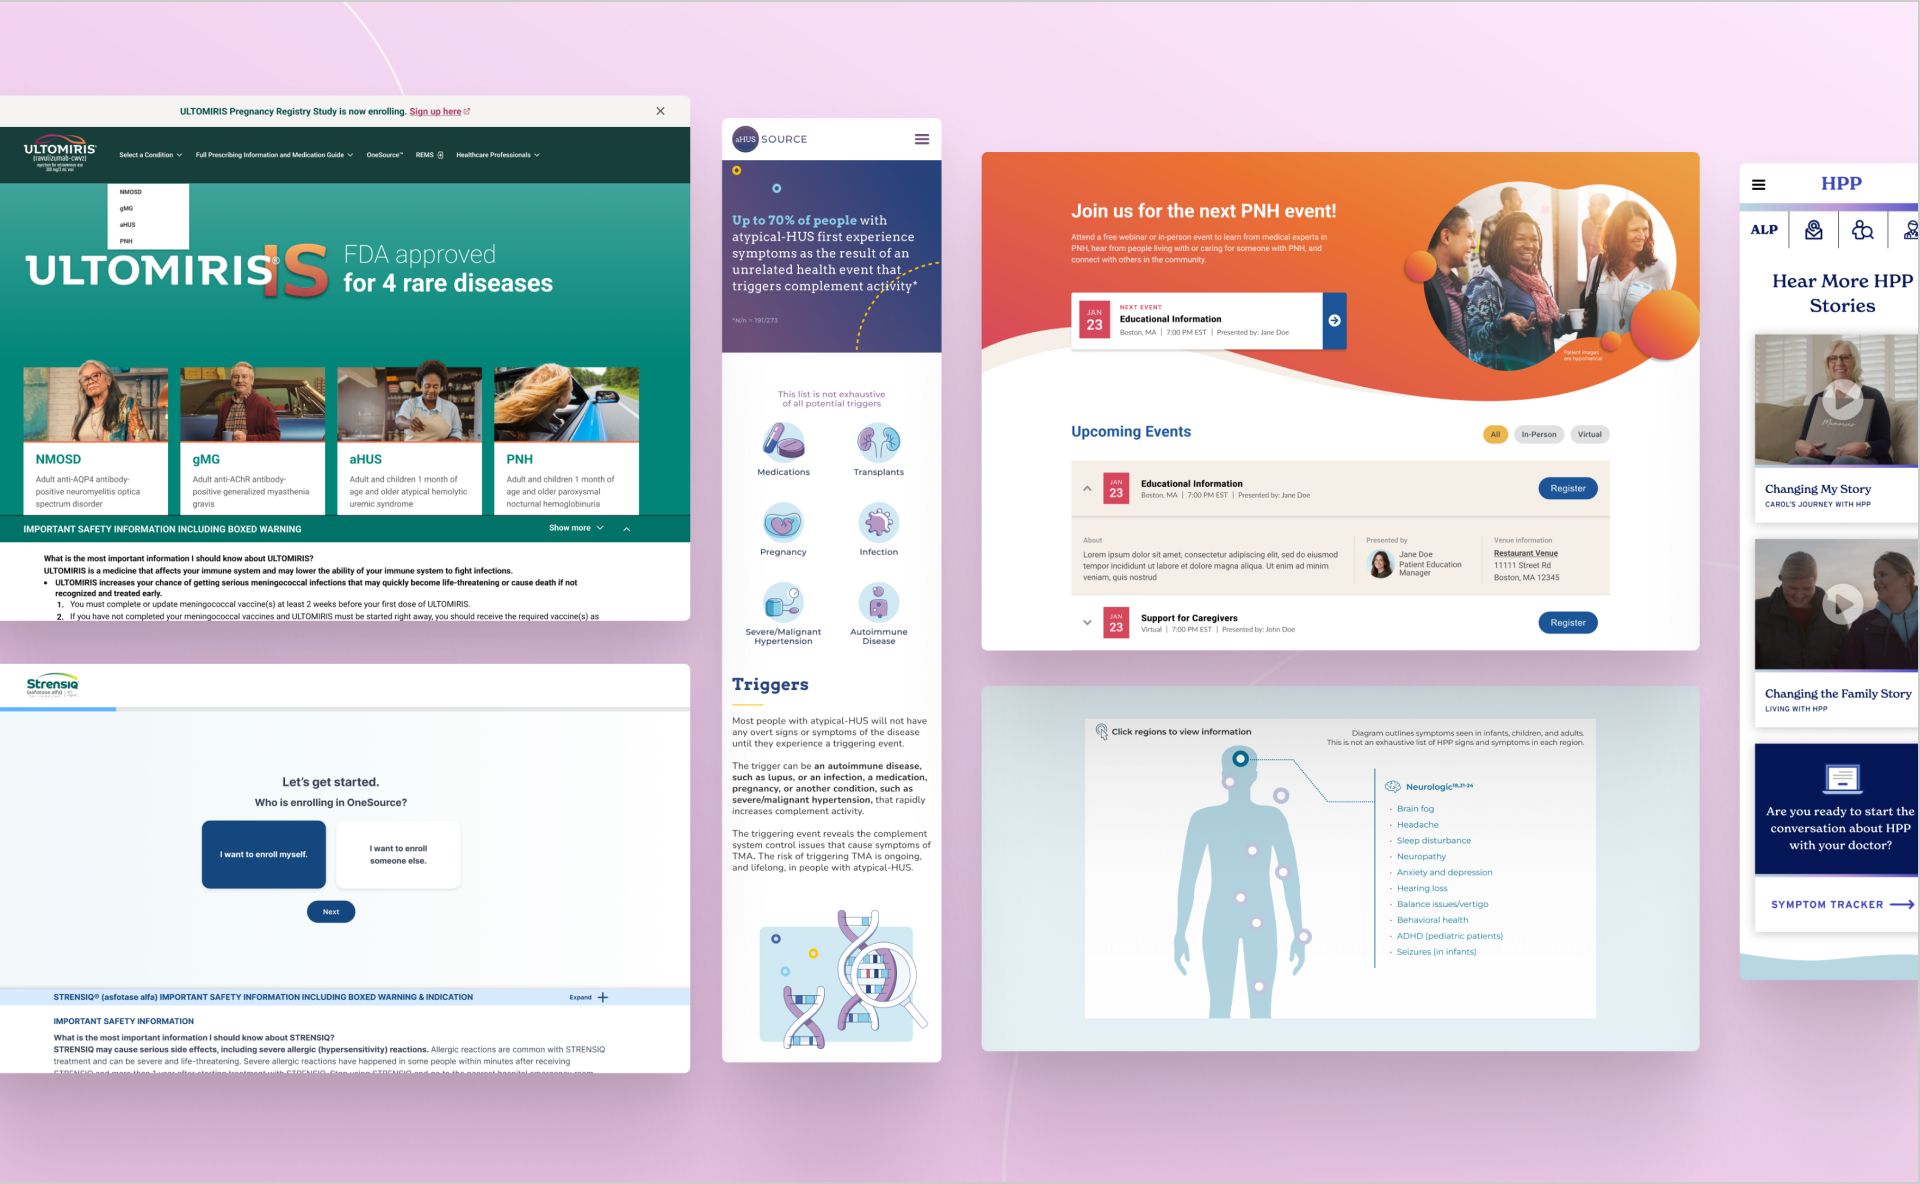
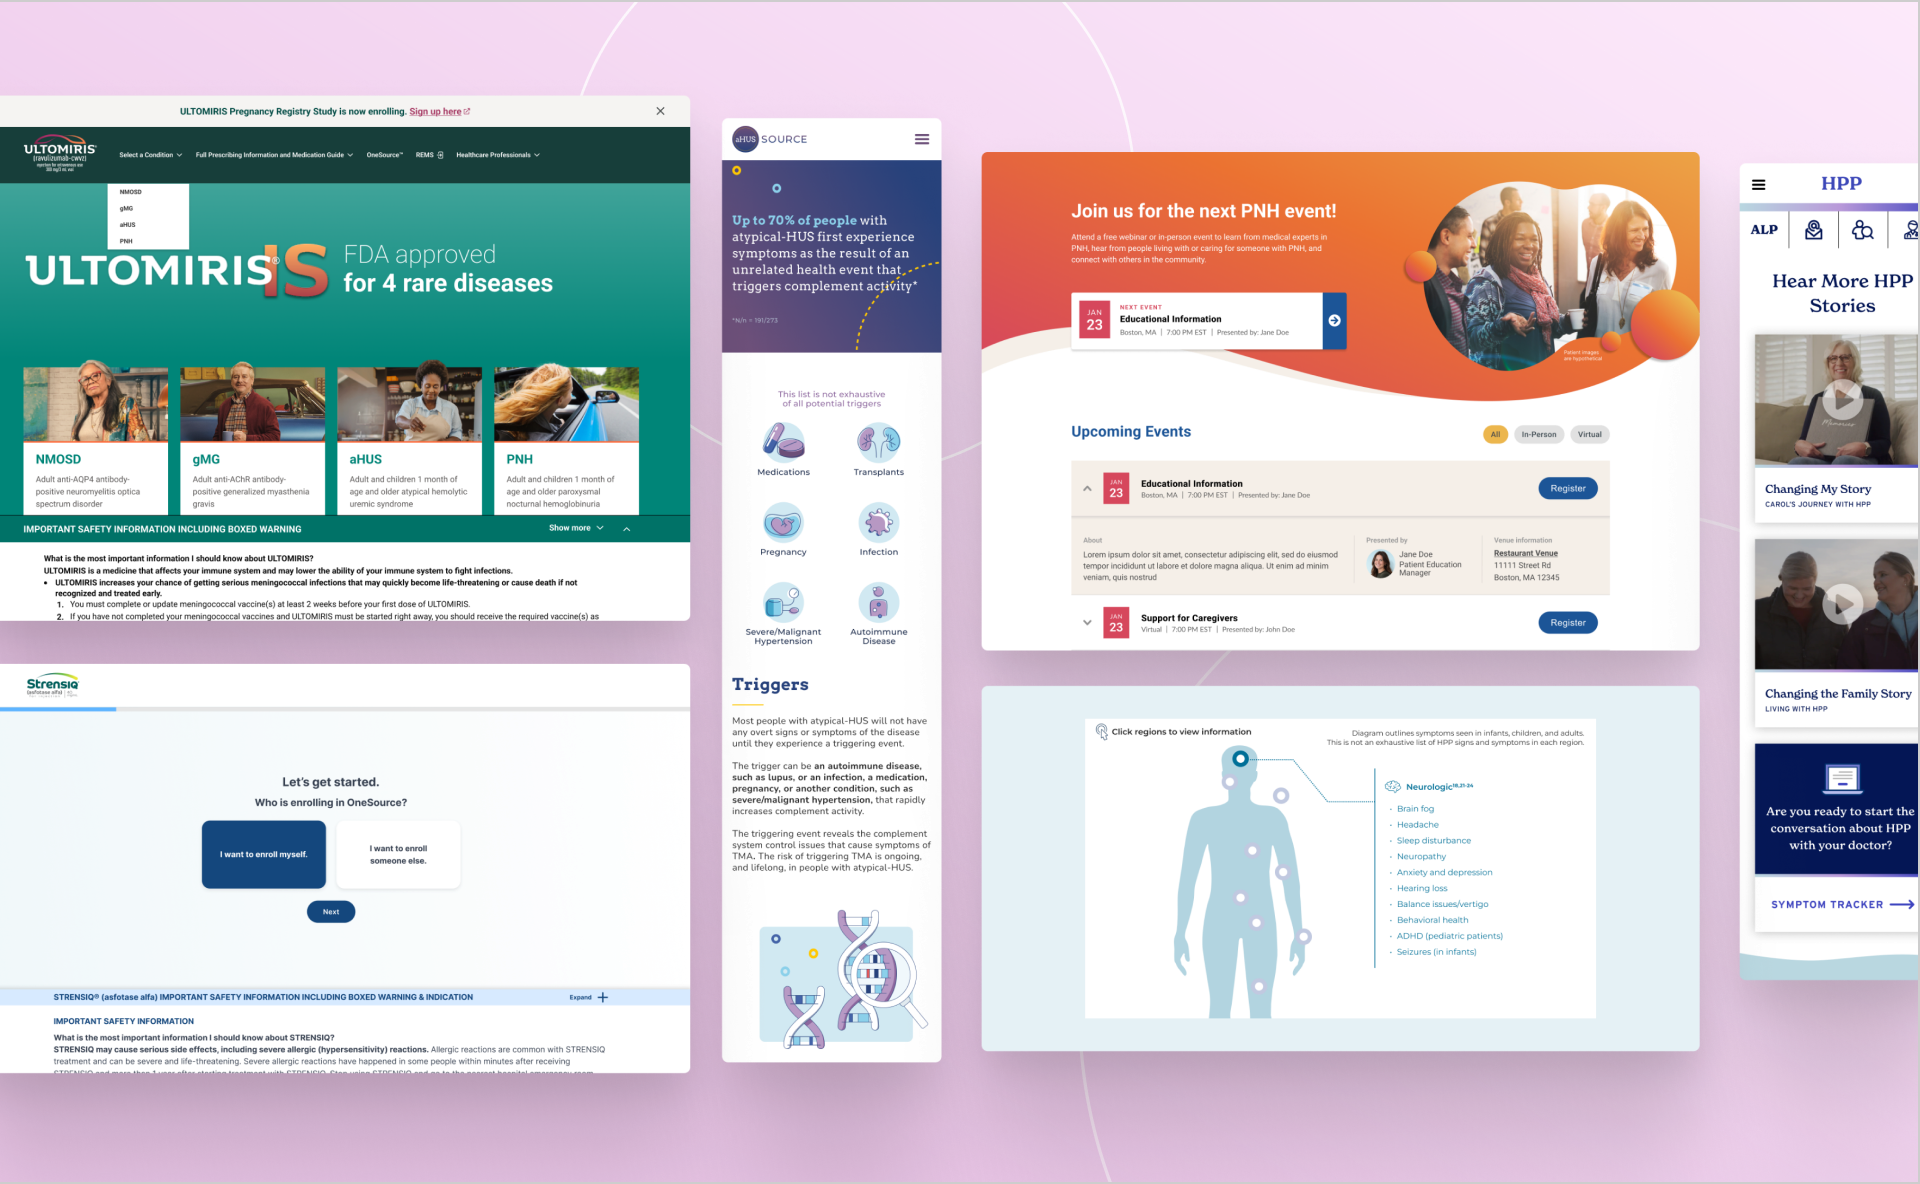
Update navigation and fix mobile industries section
- Nav links updated to title case: Our Services, Work, About Us, Let's Talk
- Removed text-transform uppercase from nav links
- Added purple hover state for nav links
- Added id="work" to featured work section for nav linking
- Fixed mobile industries bar: added bottom margin, reduced left padding, aligned bullets with first line text
- Restored logo text visibility on mobile nav and footer
- Updated section 2 and 3 images from Figma
- Bumped CSS cache version to v7

Changed region(s): [[0.5, 0.5625, 0.875, 0.625]]

diff --git a/styles.css b/styles.css
@@ -182,14 +182,13 @@ button {
   font-family: var(--font-heading);
   font-size: 14px;
   font-weight: 500;
-  letter-spacing: 0.84px;
-  text-transform: uppercase;
+  letter-spacing: 0.42px;
   color: var(--color-text);
-  transition: opacity 0.3s ease;
+  transition: color 0.3s ease;
 }
 
 .nav-link:hover {
-  opacity: 0.6;
+  color: var(--color-purple);
 }
 
 /* =============================================
@@ -1195,7 +1194,7 @@ button {
   }
 
   .nav-logo-text {
-    display: none;
+    display: block;
   }
 
   .nav-hamburger {
@@ -1323,16 +1322,16 @@ button {
   }
 
   .industries-bar {
-    margin: 0 24px;
+    margin: 0 24px 40px;
     align-items: stretch;
   }
 
   .industries-label {
     font-size: 11px;
-    padding: 16px;
+    padding: 12px;
     margin-right: 0;
     flex: 0 0 auto;
-    width: 150px;
+    width: 110px;
     align-self: flex-start;
     border-right: none;
   }
@@ -1342,7 +1341,7 @@ button {
     align-items: flex-start;
     gap: 6px;
     flex: 1;
-    padding: 16px 24px 16px 16px;
+    padding: 12px 16px;
     border-left: 1px solid var(--color-border);
   }
 
@@ -1353,7 +1352,7 @@ button {
   .industry-item {
     font-size: 11px;
     display: flex;
-    align-items: center;
+    align-items: baseline;
     gap: 8px;
   }
 
@@ -1364,6 +1363,8 @@ button {
     border-radius: 50%;
     background: #d64040;
     flex-shrink: 0;
+    position: relative;
+    top: -1px;
   }
 
   .how-we-think {

diff --git a/index.html b/index.html
@@ -17,7 +17,7 @@
   <link rel="preconnect" href="https://fonts.googleapis.com">
   <link rel="preconnect" href="https://fonts.gstatic.com" crossorigin>
   <link href="https://fonts.googleapis.com/css2?family=Geist:wght@400;600;700&family=Public+Sans:wght@400;600&family=Inter:wght@500&display=swap" rel="stylesheet">
-  <link rel="stylesheet" href="styles.css?v=4">
+  <link rel="stylesheet" href="styles.css?v=7">
 </head>
 <body>
 
@@ -47,9 +47,10 @@
       <span class="hamburger-line"></span>
     </button>
     <div class="nav-links">
-      <a href="#services" class="nav-link">What we do</a>
-      <a href="#about" class="nav-link">About</a>
-      <a href="contact.html" class="nav-link">Connect</a>
+      <a href="#services" class="nav-link">Our Services</a>
+      <a href="#work" class="nav-link">Work</a>
+      <a href="#about" class="nav-link">About Us</a>
+      <a href="contact.html" class="nav-link">Let's Talk</a>
     </div>
     <div class="nav-overlay"></div>
   </nav>
@@ -233,7 +234,7 @@
   </section>
 
   <!-- Featured Work -->
-  <section class="featured-work">
+  <section id="work" class="featured-work">
     <div class="section-tag">
       <img src="assets/dot-pink.svg" alt="" class="dot">
       <span>Featured work</span>

diff --git a/work-branding.html b/work-branding.html
@@ -7,7 +7,7 @@
   <link rel="preconnect" href="https://fonts.googleapis.com">
   <link rel="preconnect" href="https://fonts.gstatic.com" crossorigin>
   <link href="https://fonts.googleapis.com/css2?family=Geist:wght@400;600;700&family=Public+Sans:wght@400;600&family=Inter:wght@500&display=swap" rel="stylesheet">
-  <link rel="stylesheet" href="styles.css?v=5">
+  <link rel="stylesheet" href="styles.css?v=7">
   <link rel="stylesheet" href="case-study.css?v=6">
 </head>
 <body>
@@ -26,9 +26,10 @@
       <span class="hamburger-line"></span>
     </button>
     <div class="nav-links">
-      <a href="index.html#services" class="nav-link">What we do</a>
-      <a href="index.html#about" class="nav-link">About</a>
-      <a href="contact.html" class="nav-link">Connect</a>
+      <a href="index.html#services" class="nav-link">Our Services</a>
+      <a href="index.html#work" class="nav-link">Work</a>
+      <a href="index.html#about" class="nav-link">About Us</a>
+      <a href="contact.html" class="nav-link">Let's Talk</a>
     </div>
     <div class="nav-overlay"></div>
   </nav>

diff --git a/work-design-systems.html b/work-design-systems.html
@@ -7,7 +7,7 @@
   <link rel="preconnect" href="https://fonts.googleapis.com">
   <link rel="preconnect" href="https://fonts.gstatic.com" crossorigin>
   <link href="https://fonts.googleapis.com/css2?family=Geist:wght@400;600;700&family=Public+Sans:wght@400;600&family=Inter:wght@500&display=swap" rel="stylesheet">
-  <link rel="stylesheet" href="styles.css?v=5">
+  <link rel="stylesheet" href="styles.css?v=7">
   <link rel="stylesheet" href="case-study.css?v=6">
 </head>
 <body>
@@ -26,9 +26,10 @@
       <span class="hamburger-line"></span>
     </button>
     <div class="nav-links">
-      <a href="index.html#services" class="nav-link">What we do</a>
-      <a href="index.html#about" class="nav-link">About</a>
-      <a href="contact.html" class="nav-link">Connect</a>
+      <a href="index.html#services" class="nav-link">Our Services</a>
+      <a href="index.html#work" class="nav-link">Work</a>
+      <a href="index.html#about" class="nav-link">About Us</a>
+      <a href="contact.html" class="nav-link">Let's Talk</a>
     </div>
     <div class="nav-overlay"></div>
   </nav>

diff --git a/work-product-design.html b/work-product-design.html
@@ -7,7 +7,7 @@
   <link rel="preconnect" href="https://fonts.googleapis.com">
   <link rel="preconnect" href="https://fonts.gstatic.com" crossorigin>
   <link href="https://fonts.googleapis.com/css2?family=Geist:wght@400;600;700&family=Public+Sans:wght@400;600&family=Inter:wght@500&display=swap" rel="stylesheet">
-  <link rel="stylesheet" href="styles.css?v=5">
+  <link rel="stylesheet" href="styles.css?v=7">
   <link rel="stylesheet" href="case-study.css?v=6">
 </head>
 <body>
@@ -26,9 +26,10 @@
       <span class="hamburger-line"></span>
     </button>
     <div class="nav-links">
-      <a href="index.html#services" class="nav-link">What we do</a>
-      <a href="index.html#about" class="nav-link">About</a>
-      <a href="contact.html" class="nav-link">Connect</a>
+      <a href="index.html#services" class="nav-link">Our Services</a>
+      <a href="index.html#work" class="nav-link">Work</a>
+      <a href="index.html#about" class="nav-link">About Us</a>
+      <a href="contact.html" class="nav-link">Let's Talk</a>
     </div>
     <div class="nav-overlay"></div>
   </nav>

diff --git a/contact.html b/contact.html
@@ -24,9 +24,10 @@
       <span class="hamburger-line"></span>
     </button>
     <div class="nav-links">
-      <a href="index.html#services" class="nav-link">What we do</a>
-      <a href="index.html#about" class="nav-link">About</a>
-      <a href="contact.html" class="nav-link nav-link--active">Connect</a>
+      <a href="index.html#services" class="nav-link">Our Services</a>
+      <a href="index.html#work" class="nav-link">Work</a>
+      <a href="index.html#about" class="nav-link">About Us</a>
+      <a href="contact.html" class="nav-link nav-link--active">Let's Talk</a>
     </div>
     <div class="nav-overlay"></div>
   </nav>
